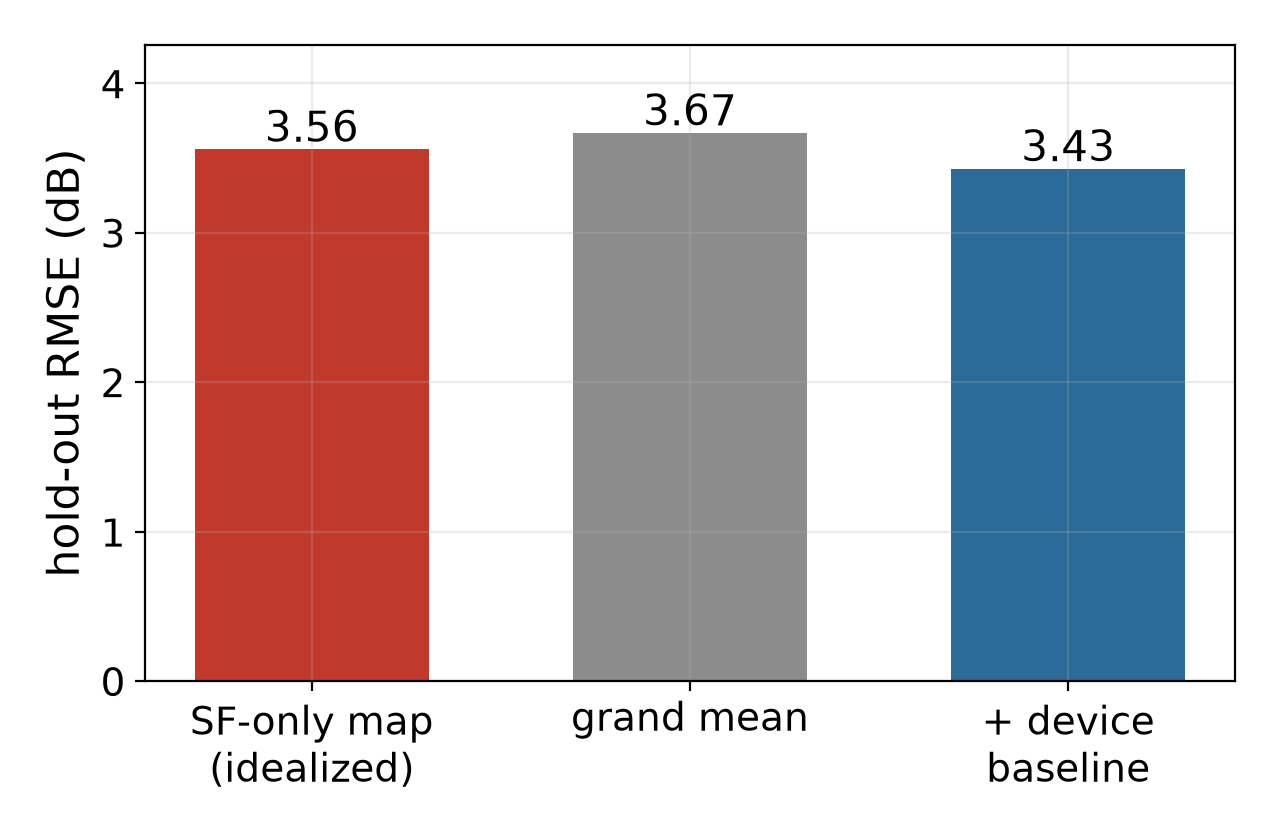
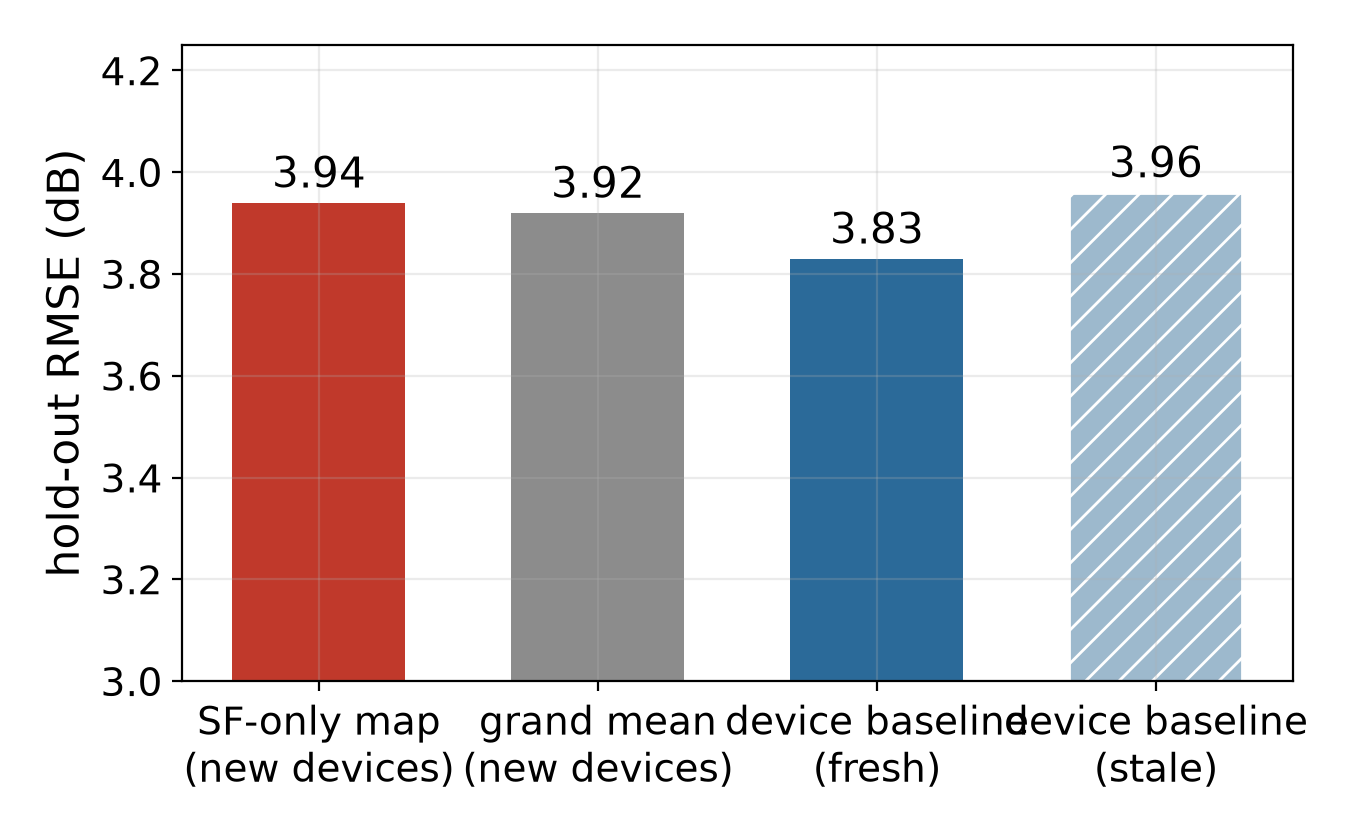
Review-hardening pass: protocol-explicit holdout (fig4), report supersession note

diff --git a/code/regen_figs.py b/code/regen_figs.py
@@ -81,14 +81,14 @@ ax.set_xlabel('Spreading factor'); ax.set_ylabel('SNR margin (dB)')
 ax.legend(loc='upper left', framealpha=0.95)
 fig.tight_layout(); fig.savefig(os.path.join(HERE, 'fig3_idealized_vs_measured.png')); plt.close(fig)
 
-# ---- fig4: hold-out RMSE ----
-h = P['holdout_rmse_db']
-names = ['SF-only map\n(idealized)', 'grand mean', '+ device\nbaseline']
-vals = [h['idealized_sf_only'], h['grand_mean'], h['device_baseline']]
-fig, ax = plt.subplots(figsize=(6.4, 4.2))
-bars = ax.bar(names, vals, color=[RED, '0.55', BLUE], width=0.62)
+# ---- fig4: hold-out RMSE (protocol-explicit; values from holdout recompute 2026-07-19) ----
+names = ['SF-only map\n(new devices)', 'grand mean\n(new devices)', 'device baseline\n(fresh)', 'device baseline\n(stale)']
+vals = [3.94, 3.92, 3.83, 3.96]
+fig, ax = plt.subplots(figsize=(6.8, 4.2))
+bars = ax.bar(names, vals, color=[RED, '0.55', BLUE, '#9db9cd'], width=0.62)
+bars[3].set_hatch('//'); bars[3].set_edgecolor('white')
 for b, v in zip(bars, vals):
-    ax.text(b.get_x() + b.get_width()/2, v + 0.05, f'{v:.2f}', ha='center', fontsize=15)
-ax.set_ylabel('hold-out RMSE (dB)'); ax.set_ylim(0, max(vals)*1.16)
+    ax.text(b.get_x() + b.get_width()/2, v + 0.03, f'{v:.2f}', ha='center', fontsize=15)
+ax.set_ylabel('hold-out RMSE (dB)'); ax.set_ylim(3.0, 4.25)
 fig.tight_layout(); fig.savefig(os.path.join(HERE, 'fig4_holdout_rmse.png')); plt.close(fig)
 print('figs 1-4 regenerated')

diff --git a/docs/RWSCP_measured_link_model_report.md b/docs/RWSCP_measured_link_model_report.md
@@ -18,7 +18,8 @@ The gap between them, propagated through the allocator, is **X** (the cross-devi
 
 ## 2. The headline (the falsification)
 
-Fleet-wide, **SF explains η² = 0.026 of SNR-margin variance** (95% CI 1.4–5.3%). Out of sample, the idealized SF-only map (RMSE 3.56 dB) is **no better than guessing the grand mean** (3.67 dB). As a channel-state proxy — the role allocators give it — SF carries essentially nothing. See `fig1_margin_by_sf.png` and `fig4_holdout_rmse.png`.
+Fleet-wide, **SF explains η² = 0.026 of SNR-margin variance** (95% CI 1.4–5.3%). Out of sample, the idealized SF-only map (RMSE 3.56 dB) is **no better than guessing the grand mean** (3.67 dB).
+*(Protocol note, added 2026-07-19: these original hold-out numbers came from an unspecified split. The paper's final, protocol-explicit recompute — grouped-by-device 10-fold — gives SF-only 3.94 vs grand mean 3.92 dB (same conclusion, cleaner), with device-baseline 3.83 dB under a within-device random split and 3.96 dB under a temporal split; the recompute supersedes these figures.)* As a channel-state proxy — the role allocators give it — SF carries essentially nothing. See `fig1_margin_by_sf.png` and `fig4_holdout_rmse.png`.
 
 ## 3. The mechanism (why the proxy fails — the keystone)
 
